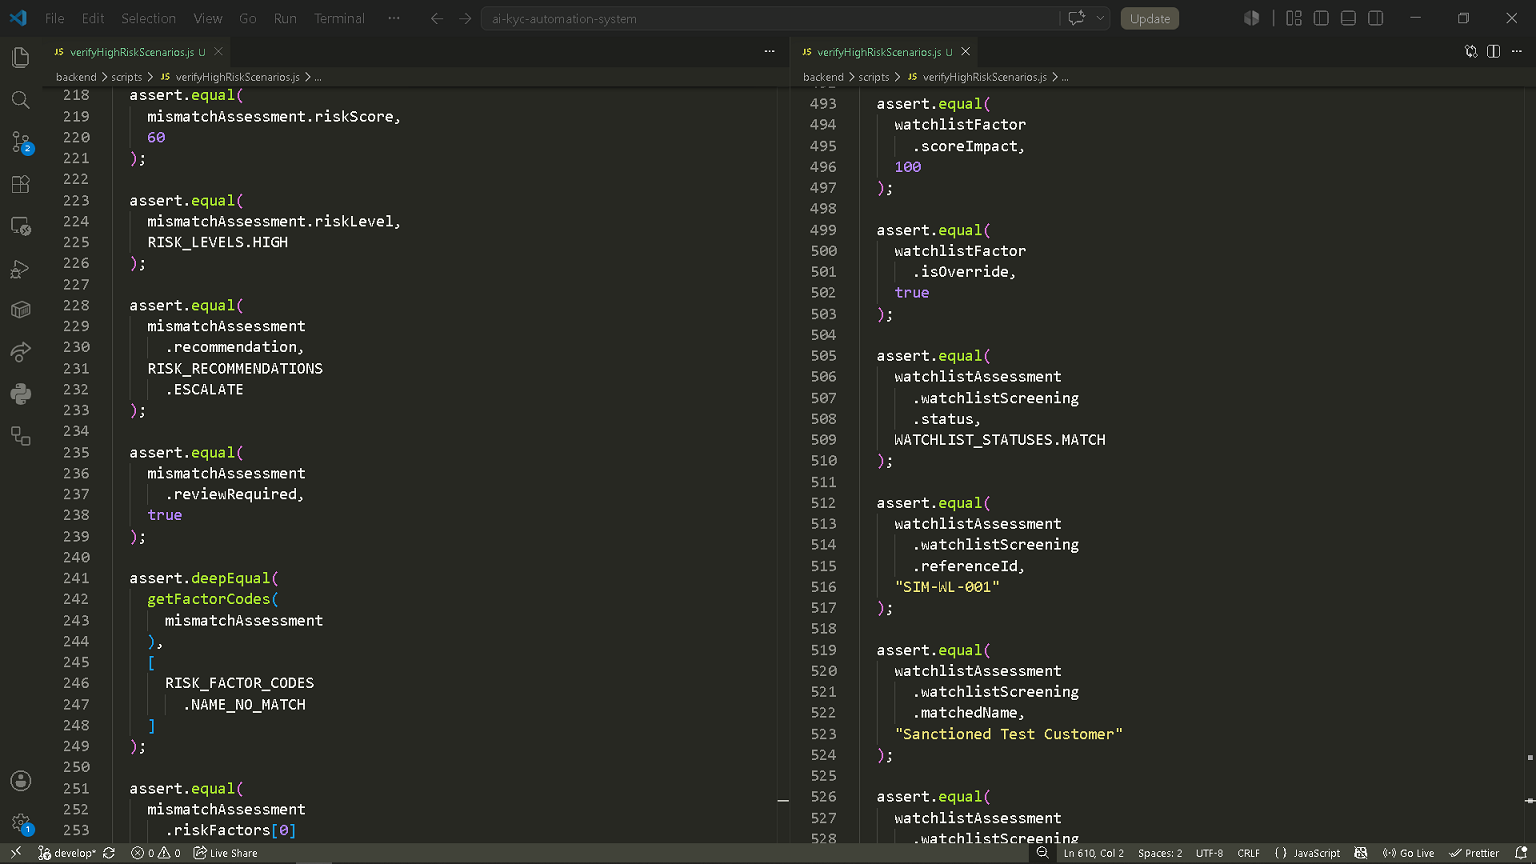
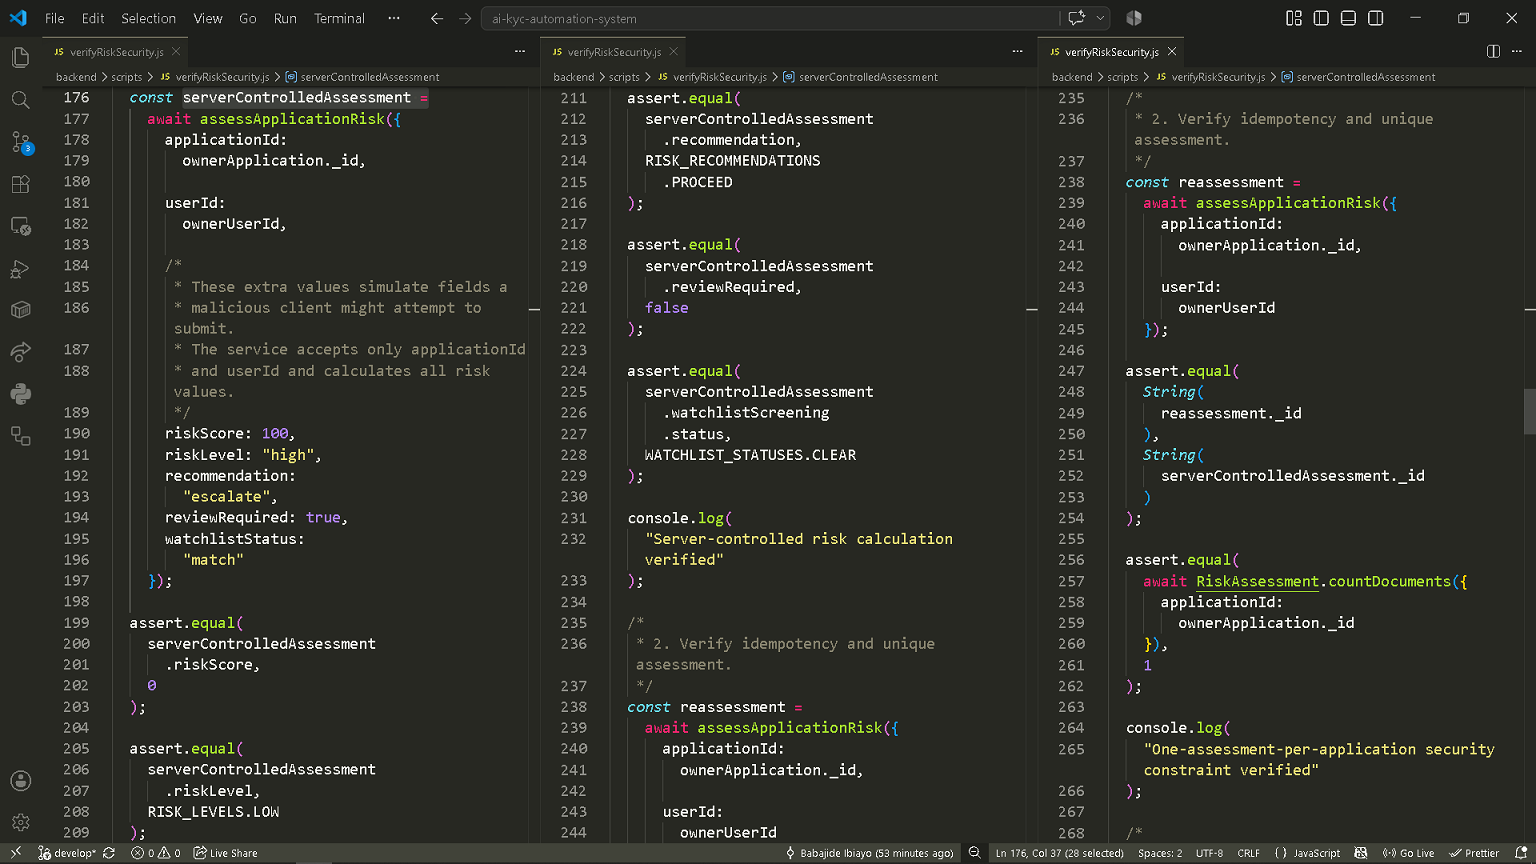
Consolidated and audited Sprint 4 evidence

diff --git a/backend/docs/reports/sprint-4/sprint-4-evidence-register.md b/backend/docs/reports/sprint-4/sprint-4-evidence-register.md
@@ -1,0 +1,51 @@
+# Sprint 4 Evidence Register
+
+Generated: 2026-07-25 15:00:22
+
+- Expected sequence: 01-27
+- Image files discovered: 27
+- Valid numbered files: 27
+
+## Evidence Inventory
+
+| No. | Filename | Description | Size | SHA-256 |
+|---:|---|---|---:|---|
+| 01 | 01-risk_constants_weights_thresholds.png | risk constants weights thresholds | 210.1 KB | `2DCB8A2D313E` |
+| 02 | 02-risk_constants_verified.png | risk constants verified | 111.6 KB | `4542BBCE56D4` |
+| 03 | 03-risk_assessment_schema.png | risk assessment schema | 189.2 KB | `C8CB222137F4` |
+| 04 | 04-risk_assessment_schema_verified.png | risk assessment schema verified | 105.6 KB | `177452A937DD` |
+| 05 | 05-simulated_watchlist_service.png | simulated watchlist service | 165.2 KB | `1C16B4079110` |
+| 06 | 06-simulated_watchlist_verified.png | simulated watchlist verified | 113.7 KB | `1D7250D91696` |
+| 07 | 07-pure_risk_scoring_engine.png | pure risk scoring engine | 200.6 KB | `ED6569100569` |
+| 08 | 08-risk_scoring_engine_verified.png | risk scoring engine verified | 103.9 KB | `4536CB0C0B47` |
+| 09 | 09-risk_assessment_orchestration_service.png | risk assessment orchestration service | 203.5 KB | `C544CE208BBA` |
+| 10 | 10-risk_assessment_orchestration_verified.png | risk assessment orchestration verified | 122.8 KB | `CB23041F5EEA` |
+| 11 | 11-automatic_risk_assessment_after_ocr.png | automatic risk assessment after ocr | 261.4 KB | `E1B365B3FB5C` |
+| 12 | 12-automatic_risk_assessment_verified.png | automatic risk assessment verified | 104.9 KB | `5D31A76ACABE` |
+| 13 | 13-document_upload_with_risk_assessment.png | document upload with risk assessment | 282.7 KB | `A2B8898B418D` |
+| 14 | 14-automatic_risk_assessment_in_mongodb.png | automatic risk assessment in mongodb | 242.8 KB | `68607EEAFDCB` |
+| 15 | 15-customer_risk_controller_and_route.png | customer risk controller and route | 285.7 KB | `1370DE10B77E` |
+| 16 | 16-customer_risk_assessment_retrieved.png | customer risk assessment retrieved | 239.8 KB | `DCC8CD783BBB` |
+| 17 | 17-cross_customer_risk_assessment_access_denied.png | cross customer risk assessment access denied | 204.1 KB | `B41E86357427` |
+| 18 | 18-risk_assessment_retrieval_verified.png | risk assessment retrieval verified | 81.5 KB | `172B12D840A5` |
+| 19 | 19-low_risk_scenario_test.png | low risk scenario test | 305.2 KB | `0D6EEF2C57FD` |
+| 20 | 20-low_risk_scenario_verified.png | low risk scenario verified | 104.8 KB | `E4D62D92292A` |
+| 21 | 21-medium_risk_scenario_test.png | medium risk scenario test | 297.3 KB | `CDA34157A6CA` |
+| 22 | 22-medium_risk_scenario_verified.png | medium risk scenario verified | 104.7 KB | `8209189ADE31` |
+| 23 | 23-high_risk_watchlist_scenarios_test.png | high risk watchlist scenarios test | 274.3 KB | `BA65B851B62F` |
+| 24 | 24-high_risk_watchlist_scenarios_verified.png | high risk watchlist scenarios verified | 78.4 KB | `BAFD05C2F65E` |
+| 25 | 25-risk_security_validation_test.png | risk security validation test | 384.7 KB | `F6140686D3AC` |
+| 26 | 26-risk_security_validation_verified.png | risk security validation verified | 117.8 KB | `BC3F89FF42BC` |
+| 27 | 27-sprint4_security_regression_passed.png | sprint4 security regression passed | 198.1 KB | `66944B0FA016` |
+
+## Validation Summary
+
+- Number sequence: Complete
+- Duplicate sequence numbers: None
+- Exact duplicate file content: None
+- Invalid filenames: None
+- Numbers outside expected range: None
+
+## Evidence Reuse Policy
+
+Security behaviours already demonstrated in earlier sprint evidence are referenced in the Sprint 4 report rather than captured again.
